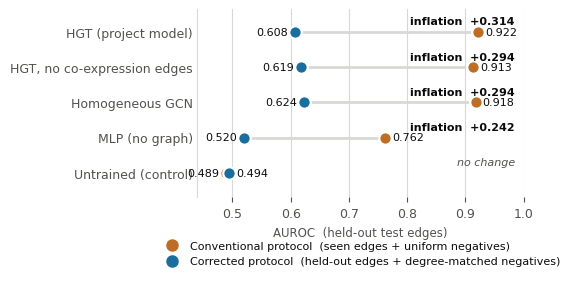
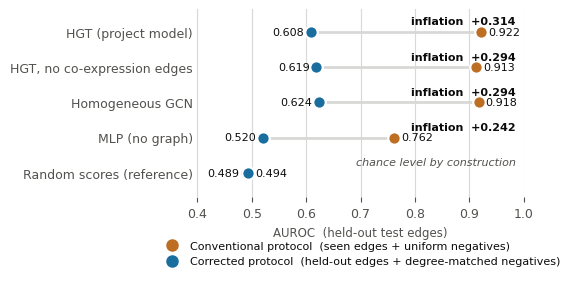
Stop citing the random-score row as an untrained control
The manuscript called the fifth row of the architecture grid an
"untrained random-weight control" that "does not move" between
protocols. It is RandomBaseline, which returns torch.randn per pair and
never reads the graph or the features, so it sits at chance under any
protocol by construction and shows nothing about the protocol. The
independent audit found that a genuinely untrained GCN does move
(0.83 -> 0.53) because propagation leaks degree.

The row is now described as a random-score reference marking chance
level, and every place that used it as evidence (abstract, highlight 4,
contributions, results, discussion, conclusion, tables E6 and S1) now
cites the graph-free MLP instead, which inflates by +0.24. Figures 2
and 3 are regenerated with the new label.

diff --git a/manuscript/jbi/main.tex b/manuscript/jbi/main.tex
@@ -122,9 +122,9 @@ Biomedical Interaction Graphs}
 \begin{abstract}
 \textbf{Objective:} We test whether conventional evaluation of graph neural network (GNN) link predictors on biomedical interaction graphs inflates reported performance, where the inflation comes from, and whether a reporting standard and a tool can prevent it.
 
-\textbf{Methods:} We compared a conventional protocol (edges seen during message passing, uniform negatives) with a corrected one (held-out edges, degree-matched negatives). We retrained one architecture on six graphs (ours and five from published papers) and scored four model-free heuristics (parameter-free scores from graph topology alone) on ten cases: those graphs, two Open Graph Benchmark (OGB) datasets and seven papers from a 21-paper survey. We also added empty candidate columns to a matrix that had none, compared four trained models, an untrained control and a cell-typing task on our graph, and validated the tool, protocheck, on 80 audits with known ground truth.
+\textbf{Methods:} We compared a conventional protocol (edges seen during message passing, uniform negatives) with a corrected one (held-out edges, degree-matched negatives). We retrained one architecture on six graphs (ours and five from published papers) and scored four model-free heuristics (parameter-free scores from graph topology alone) on ten cases: those graphs, two Open Graph Benchmark (OGB) datasets and seven papers from a 21-paper survey. We also added empty candidate columns to a matrix that had none, compared four trained models and a cell-typing task on our graph, and validated the tool, protocheck, on 80 audits with known ground truth.
 
-\textbf{Results:} The conventional protocol overstated the Area Under the Receiver Operating Characteristic curve (AUROC): 0.879--0.992 fell to 0.618--0.641 on every graph. Negative sampling carried 0.29--0.41 of the heuristics' loss on the five published graphs, a sixth or more of it label noise on the one graph we could check; on ours the two failures compound. Empty candidate columns raised a model-free floor from 0.859 to 0.982. Across seven papers, trained models beat that floor by 4.7 points, and the heuristic won on the sparsest graph. Four trained models inflated by 0.24--0.31 while an untrained control did not move; cell typing kept a 32-point margin. \texttt{protocheck} flagged every seeded leak and negative mismatch, with no false alarms.
+\textbf{Results:} The conventional protocol overstated the Area Under the Receiver Operating Characteristic curve (AUROC): 0.879--0.992 fell to 0.618--0.641 on every graph. Negative sampling carried 0.29--0.41 of the heuristics' loss on the five published graphs, a sixth or more of it label noise on the one graph we could check; on ours the two failures compound. Empty candidate columns raised a model-free floor from 0.859 to 0.982. Across seven papers, trained models beat that floor by 4.7 points, and the heuristic won on the sparsest graph. Four trained models inflated by 0.24--0.31, a graph-free MLP included; cell typing kept a 32-point margin. \texttt{protocheck} flagged every seeded leak and negative mismatch, with no false alarms.
 
 \textbf{Conclusion:} The inflation follows the evaluation protocol, not the model or dataset. We propose a minimum reporting standard (a leak-free edge split, matched negative sampling, and a model-free baseline with its margin stated); \texttt{protocheck} verifies it.
 \end{abstract}
@@ -146,7 +146,7 @@ Biomedical Interaction Graphs}
 \item Correcting the protocol drops AUROC from 0.88--0.99 to 0.62--0.64 on six graphs.
 \item Negatives drive most of the loss on five graphs; empty columns alone raise the floor.
 \item On 7 of 21 papers' own data, trained models beat a model-free floor by 4.7 points.
-\item Four trained models inflate by 0.24--0.31 on our graph; an untrained control does not.
+\item Four trained models inflate by 0.24--0.31 on our graph, a graph-free MLP included.
 \item Standard: leak-free split, matched negatives, baseline with margin; tool: protocheck.
 \end{highlights}
 %% STAGE: verify highlight count/character limit against JBI's live guide before submission.
@@ -192,11 +192,14 @@ Biomedical Interaction Graphs}
 %% "models" at the author's request -- consistent with \S\ref{sec:results} calling this
 %% axis the MODEL axis. "Our graph" became "our graph data". 0.24--0.31 is the AUROC
 %% INFLATION (the delta between protocols), not an absolute AUROC value; do not let a
-%% future edit read as "AUROC of 0.24--0.31". "Except untrained" elides the article for
-%% length but still names the single untrained-control row (Table~\ref{tab:architecture_grid}),
-%% not "untrained models" plural -- losing that exception would misstate the finding, since
-%% it is what shows the inflation is a training-protocol artifact and not something any
-%% random model would exhibit.
+%% future edit read as "AUROC of 0.24--0.31".
+%% 2026-11-02: the "untrained control does not move" clause was removed here and everywhere.
+%%   The row is models/baselines.py::RandomBaseline, which returns torch.randn per pair and
+%%   never reads the graph or the features: it is at 0.5 under any protocol by construction,
+%%   so it cannot show anything about the protocol, and "random-weight" misdescribed it. The
+%%   independent audit (BITACORA 2026-11-02, H2) found a genuinely untrained GCN DOES move
+%%   (0.83 -> 0.53) because propagation leaks degree. The "not the model" evidence is the
+%%   graph-free MLP, which inflates by +0.24. Do not reintroduce the control as evidence.
 %% 2026-09-09: bullet 5 trimmed from 142 to 82 chars. Dropped "We propose a minimum
 %% reporting" (the Conclusion already frames this as the paper's proposal) and turned
 %% "a leak-free split check" into "leak-free splits" -- the word CHECK is gone, but the
@@ -276,8 +279,8 @@ positive raise the model-free floor on their own.
 \item It measures the model-free floor on other papers' own data: seven surveyed papers and
 two Open Graph Benchmark (OGB) datasets \cite{hu2020ogb}.
 \item On a proposed graph, it shows the effect follows the
-protocol and not the model. It recurs across four trained models, an untrained control does
-not move, and a cell-typing task survives the same audit.
+protocol and not the model. It recurs across four trained models, a graph-free MLP
+included, and a cell-typing task survives the same audit.
 \item It proposes a minimum reporting standard with three requirements (a leak-free edge
 split, matched negative sampling, and a model-free baseline with its margin stated;
 Table~\ref{tab:correct_protocol}) and releases \texttt{protocheck}, an open-source tool
@@ -578,8 +581,8 @@ On the two OGB graphs, which are homogeneous and undirected, we use the textbook
 
 \paragraph{Models} The link-prediction experiments compare these baselines with four
 trained models (a heterogeneous graph transformer, a homogeneous GCN, a
-co-expression-ablation variant of the transformer, and a graph-free MLP) plus an
-untrained random-weight control.
+co-expression-ablation variant of the transformer, and a graph-free MLP) plus a
+random-score reference that ignores its input and marks chance level.
 
 \section{Results}
 \label{sec:results}
@@ -703,14 +706,15 @@ fall occurs in every trained architecture in the grid (Figure~\ref{fig:negative_
 
 Nor is the inflation specific to one model. Four trained models (the transformer, a
 homogeneous GCN, a co-expression ablation and a graph-free MLP) inflate by 0.24--0.31 AUROC
-between the two protocols, the MLP included, while an untrained random-weight control does
-not move ($-0.004$; Figure~\ref{fig:architecture_inflation}). Each is a single run on one GPU,
+between the two protocols, the MLP included (Figure~\ref{fig:architecture_inflation}). The
+random-score reference stays at chance in every cell ($-0.004$), as it must: it ignores the
+graph, so it marks the 0.5 line and does not test the protocol. Each is a single run on one GPU,
 so the levels are comparable with one another but not with Figure~\ref{fig:protocol_grid}
 (\ref{app:grid}).
 
 \begin{figure}[h!]
 \includegraphics[width=\textwidth]{../../results/figures/manuscript/fig2_architecture_inflation.pdf}
-\caption{Inflation across four trained models and an untrained control (single seed, one GPU; \ref{app:grid}).}
+\caption{Inflation across four trained models, with a random-score reference at chance level (single seed, one GPU; \ref{app:grid}).}
 \label{fig:architecture_inflation}
 \end{figure}
 
@@ -746,8 +750,8 @@ the other two visible.
 
 None of this is specific to our graph or to one model. Five external association matrices that share no data
 with ours each lose 0.26--0.37 AUROC between the protocols and land in the same 0.618--0.641 band
-(Table~\ref{tab:discrimination}); four trained models inflate by 0.24--0.31 while an untrained control does not
-move, and cell typing on the same graph survives the same audit by 32 points (Section~\ref{sec:celltype}). The
+(Table~\ref{tab:discrimination}); four trained models inflate by 0.24--0.31, a graph-free MLP
+included, and cell typing on the same graph survives the same audit by 32 points (Section~\ref{sec:celltype}). The
 weakness against a floor also appears in published work. Across the seven surveyed papers the trained models
 beat the floor by 4.7 points on average, from 9.2 points above it (DiGAMN~\cite{liu2024digamn}) to 3.3 below it (MEAHNE~\cite{huang2022meahne}), and on
 ogbl-ppa a zero-parameter formula ranks 14th of 27, tied with BUDDY~\cite{chamberlain2023buddy}. OGB's leaderboards already list such heuristics~\cite{ogb2026leaderboard}, and the
@@ -824,7 +828,7 @@ one dataset. The two failures compound on our graph, negative sampling carries m
 surveyed graphs, part of it label noise, and candidate columns that can never be positive raise the model-free floor on their own.
 Against the surveyed papers' own numbers, trained models beat that floor by 4.7 points on average and the
 heuristic wins outright on MEAHNE's graph; on OGB it ranks 30th of 32 on ogbl-ddi and 14th of 27 on ogbl-ppa.
-On our graph the inflation recurs across four trained models while an untrained control does not move, and
+On our graph the inflation recurs across four trained models, a graph-free MLP included, and
 cell typing survives the same audit by 32 points, so the effect follows the evaluation protocol, not the model.
 Under the corrected protocol our model exceeds its model-free floor by 3.6 points.
 

diff --git a/manuscript/jbi/tables/table_experiments.tex b/manuscript/jbi/tables/table_experiments.tex
@@ -13,7 +13,7 @@ E2 & How much does each failure contribute without a trained model? & The six gr
 E3 & How far above a model-free floor are published numbers? & The five external matrices, i.e.\ the seven surveyed papers (MGCNSS~\cite{tian2024mgcnss}, NIMGSA~\cite{jin2022nimgsa}, HLGNN-MDA~\cite{yu2022hlgnnmda}, CKSNP-GNN~\cite{li2022cksnpgnn}, DiGAMN~\cite{liu2024digamn}, CoupleMDA~\cite{li2025couplemda}, MEAHNE~\cite{huang2022meahne}) & The heuristics, unmodified, under each paper's negative ratio, read against its published number & \S\ref{sec:generalization} \\
 E4 & Does the floor behave the same outside this literature? & ogbl-ddi, ogbl-ppa~\cite{hu2020ogb} & One-hop forms of the same heuristics after a runtime leak-free check, read against the public leaderboards & \S\ref{sec:generalization} \\
 E5 & Why is the floor high on some graphs? & The five external matrices (thinning); the canonical HMDD~\cite{li2014hmdd} matrix (padding) & Positives thinned from 100\% to 10\% (five seeds per point); empty candidate columns added; model-free floor measured & \S\ref{sec:dead_columns} \\
-E6 & Does the inflation follow the protocol or the model? & Our graph (CZ CELLxGENE Census scRNA-seq~\cite{czi2025cellxgene} with miRDB v6.0~\cite{chen2020mirdb}) & The transformer over the full grid (four seeds); four trained models and an untrained control over the grid (one run each) & \S\ref{sec:mechanism} \\
+E6 & Does the inflation follow the protocol or the model? & Our graph (CZ CELLxGENE Census scRNA-seq~\cite{czi2025cellxgene} with miRDB v6.0~\cite{chen2020mirdb}) & The transformer over the full grid (four seeds); four trained models over the grid (one run each), with a random-score reference & \S\ref{sec:mechanism} \\
 E7 & Does the audit also deflate cell typing, a task that is not link prediction? & Our graph, cell-type labels of its cells & The trained model against two graph-free controls (PCA features only, no graph) & \S\ref{sec:celltype} \\
 \hline
 \end{tabular}}

diff --git a/analysis/make_manuscript_figures.py b/analysis/make_manuscript_figures.py
@@ -65,7 +65,7 @@ PRETTY = {
     "homo_gcn":           "Homogeneous GCN",
     "ablation_no_coexpr": "HGT, no co-expression edges",
     "mlp":                "MLP (no graph)",
-    "random":             "Untrained (control)",
+    "random":             "Random scores (reference)",
 }
 ORDER = ["hgt_v2", "homo_gcn", "ablation_no_coexpr", "mlp", "random"]
 
@@ -76,7 +76,7 @@ SHORT = {
     "homo_gcn":           "GCN",
     "ablation_no_coexpr": "HGT, no\nco-expr.",
     "mlp":                "MLP\n(no graph)",
-    "random":             "Untrained\n(control)",
+    "random":             "Random\nscores",
 }
 
 
@@ -186,14 +186,14 @@ def fig2_architecture_inflation(grid: dict[str, dict[str, float]], out: Path) ->
                 fontsize=8, color=INK)
         flat = abs(delta) < 0.02
         ax.text(0.985, y + 0.30,
-                ("no change" if flat else f"inflation  +{delta:.3f}"),
+                ("chance level by construction" if flat else f"inflation  +{delta:.3f}"),
                 va="center", ha="right", fontsize=8, color=INK2 if flat else INK,
                 style="italic" if flat else "normal",
                 fontweight="normal" if flat else "bold")
 
     ax.set_yticks(list(ys))
     ax.set_yticklabels([PRETTY[m] for m in (r[0] for r in rows)], fontsize=9)
-    ax.set_xlim(0.44, 1.0)
+    ax.set_xlim(0.40, 1.0)
     ax.set_ylim(-0.7, len(rows) - 0.35)
     ax.set_xlabel("AUROC  (held-out test edges)", fontsize=8.5, color=INK2)
     ax.xaxis.grid(True, color=GRID, lw=0.8)

diff --git a/manuscript/jbi/tables/table_results_summary.tex b/manuscript/jbi/tables/table_results_summary.tex
@@ -13,7 +13,7 @@ E2 & The model-free heuristics inflate by 0.32--0.43; negative sampling carries 
 E3 & Trained models beat the model-free floor by 4.7 points per paper, from $-9.2$ to $+3.3$ & \S\ref{sec:generalization} \\
 E4 & The heuristics reproduce the leaderboards: 30th of 32 on ogbl-ddi, 14th of 27 on ogbl-ppa~\cite{ogb2026leaderboard} & \S\ref{sec:generalization} \\
 E5 & Empty candidate columns alone raise the floor from 0.859 to 0.982 & \S\ref{sec:dead_columns} \\
-E6 & On our graph the transformer falls from 0.9867 to 0.6276, and four trained models inflate by 0.24--0.31 while the untrained control does not move & \S\ref{sec:mechanism} \\
+E6 & On our graph the transformer falls from 0.9867 to 0.6276, and four trained models inflate by 0.24--0.31, a graph-free MLP included & \S\ref{sec:mechanism} \\
 E7 & Cell typing reaches 0.9916 against 0.4654 and 0.6692 for the graph-free controls, a 32-point gap, so the audit leaves it intact & \S\ref{sec:celltype} \\
 \hline
 \end{tabular}}

diff --git a/manuscript/jbi/tables/tableS1_architecture_grid.tex b/manuscript/jbi/tables/tableS1_architecture_grid.tex
@@ -11,7 +11,7 @@ HGT (project model) & 0.9222 & 0.8335 & 0.8125 & 0.6080 & +0.3142 \\
 Homogeneous GCN & 0.9177 & 0.8296 & 0.7954 & 0.6236 & +0.2941 \\
 HGT, no co-expression edges & 0.9128 & 0.8323 & 0.8071 & 0.6185 & +0.2943 \\
 MLP (no graph) & 0.7622 & 0.4994 & 0.7269 & 0.5202 & +0.2420 \\
-Untrained (control) & 0.4895 & 0.5071 & 0.4984 & 0.4938 & -0.0043 \\
+Random scores (reference) & 0.4895 & 0.5071 & 0.4984 & 0.4938 & -0.0043 \\
 \hline
 \end{tabular}
 }

diff --git a/analysis/make_manuscript_tables.py b/analysis/make_manuscript_tables.py
@@ -42,7 +42,7 @@ PRETTY = {
     "ablation_no_coexpr": "HGT, no co-expression edges",
     "mlp":                "MLP (no graph)",
     "ablation_no_mirna":  "HGT, no miRNA input (smoke test)",
-    "random":             "Untrained (control)",
+    "random":             "Random scores (reference)",
 }
 ORDER_FULL = ["hgt_v2", "homo_gcn", "ablation_no_coexpr", "mlp", "ablation_no_mirna", "random"]
 

diff --git a/BITACORA.md b/BITACORA.md
@@ -247,6 +247,38 @@ Lo dejamos documentado en vez de forzar la coincidencia.
 
 Los demás conteos (D2: 7 yes / 1 no / 11 unclear de 19; seis con baseline) no cambian.
 
+### (c) hecha: el "control sin entrenar" no era un control
+
+Al revisar el código para acotar la frase apareció algo más grave que lo que señaló el auditor. La fila "Untrained (control)"
+de la Tabla S1 y la Fig. 2 es `models/baselines.py::RandomBaseline`, que **devuelve `torch.randn` por cada par y nunca lee
+el grafo ni las features**. No es una red con pesos aleatorios, aunque el manuscrito la llamaba "untrained random-weight
+control". Su AUROC es 0.5 bajo cualquier protocolo por construcción, así que "does not move" era una tautología: no podía
+moverse y no prueba nada sobre el protocolo. El comentario `%% STAGE` del highlight 4 incluso decía que era "lo que muestra
+que la inflación es un artefacto del protocolo", lo cual era falso.
+
+La evidencia real de "el efecto sigue al protocolo, no al modelo" es el **MLP sin grafo**, que también infla (+0.24). El
+auditor muestra además (H2, pista C) que una GCN de verdad sin entrenar **sí** se mueve (0.83→0.53), porque la propagación
+filtra el grado: la inflación no necesita aprendizaje.
+
+**Cambios:**
+- `main.tex`: Abstract (Methods y Results), highlight 4, contribuciones, Modelos, Resultados (§ arquitecturas), caption de
+  la Fig. 2, Discusión y Conclusión. "an untrained control does not move" pasa a "a graph-free MLP included", y la fila se
+  describe como "random-score reference that ignores its input and marks chance level". En Resultados se dice explícitamente
+  que "does not test the protocol". El highlight quedó en 82 caracteres.
+- Tablas: `tableS1` (la etiqueta pasa a "Random scores (reference)"), `table_experiments` y `table_results_summary` (fila E6).
+- Figuras: etiqueta cambiada en `analysis/make_manuscript_figures.py` y `make_manuscript_tables.py`. Se regeneraron
+  **solo** la Fig. 2 y la Fig. 3 (llamando a sus funciones, no a `main()`), y la anotación "no change" pasó a "chance level by
+  construction". La Tabla S1 se editó a mano porque su generador tiene un caption viejo que pisaría el recortado.
+- `goal.md` (l. ~445) corregido. Comentario `%% STAGE` nuevo que prohíbe reintroducir el control como evidencia.
+- Compila limpio.
+
+**Sin tocar:** `presentation/beamer_ms_project/` (01_context l. 28; 05_estado_actual l. 171, 187, 348) repite la afirmación.
+Hay que corregir las láminas antes de volver a presentarlas.
+
+**Abierto:** si se quiere un control de verdad, hay que correr el HGT (o la GCN) con pesos aleatorios congelados en las
+cuatro celdas en la DGX. Por lo que midió el auditor, lo esperable es que **se mueva** por el grado, lo que apoyaría el paper
+(la inflación aparece sin aprendizaje) pero cambiaría la narrativa de esa sección.
+
 ---
 
 ## 2026-10-27 → 10-28 — MGCNSS en sus cinco folds, y cuánto del efecto de negative sampling es ruido de etiquetas

diff --git a/goal.md b/goal.md
@@ -442,8 +442,9 @@ done and the second is suspended). Full detail in
       **Every trained architecture inflates by 0.24-0.31** between the original protocol
       (seen edges + uniform negatives) and the honest one (held-out + degree-matched):
       `hgt_v2` +0.3142, `ablation_no_coexpr` +0.2943, `homo_gcn` +0.2941, and a **graph-free
-      `mlp` +0.2420**. The untrained `random` control does not move (−0.0043), which is what
-      makes the rest trustworthy. The inflation therefore is not a property of the
+      `mlp` +0.2420**. The `random` row (−0.0043) is `RandomBaseline`, which returns random scores and never
+      reads the graph, so it sits at chance by construction and supports nothing (corrected
+      2026-11-02; see BITACORA). The inflation therefore is not a property of the
       transformer, of heterogeneous message passing, or even of *having a graph* — it is a
       property of the protocol. `gene_degree` (0.8712) also beats **all four** trained models
       under the original protocol, generalizing §2's claim 2 beyond the HGT.
